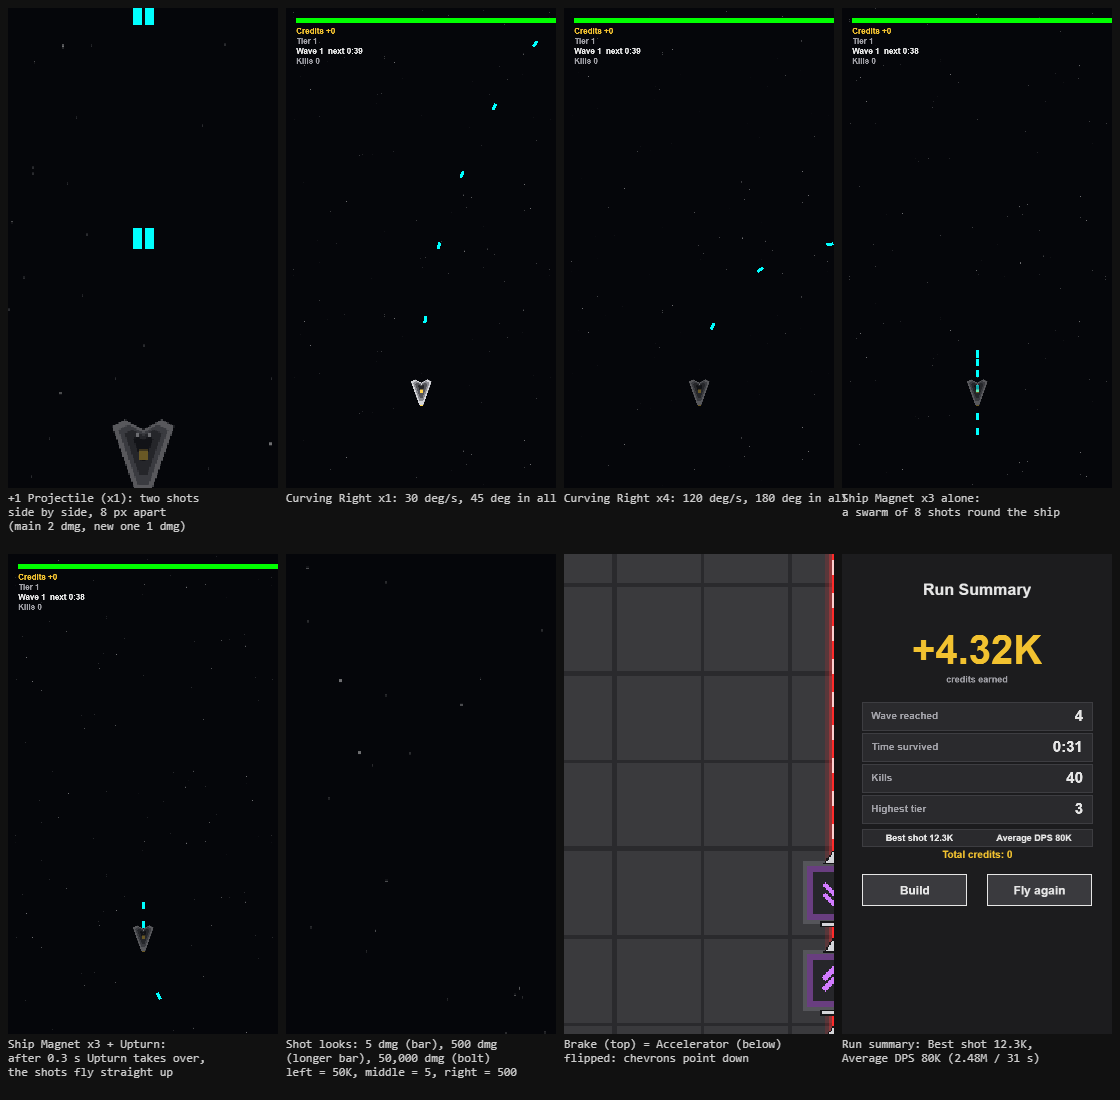
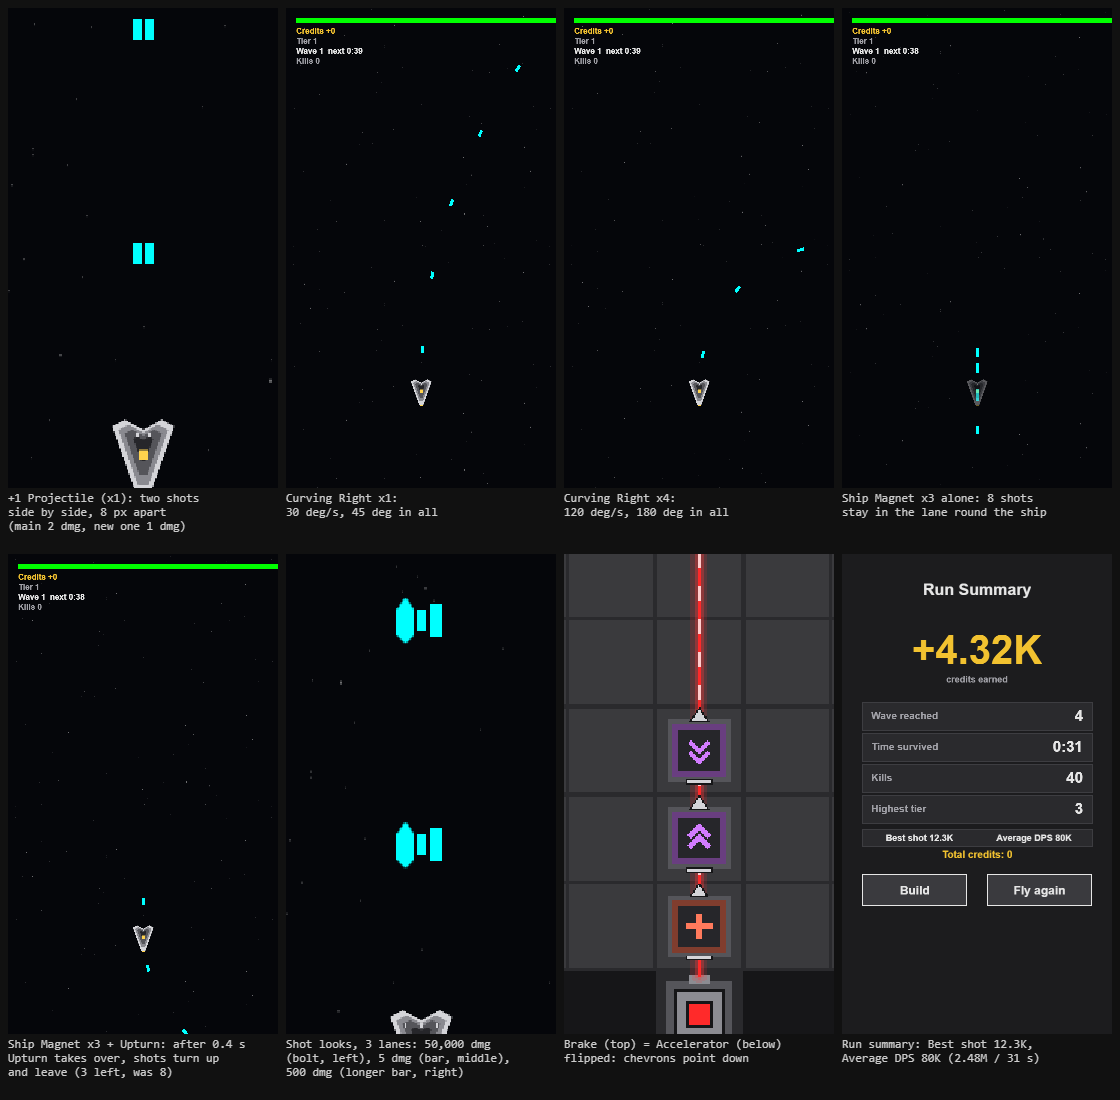
Chunk 21a: audit rerun, report, contact sheet, DECISIONS 367-371, e2e fixes

diff --git a/reports/chunk21a/REPORT.md b/reports/chunk21a/REPORT.md
@@ -1,0 +1,49 @@
+# Chunk 21a report
+
+Branch `chunk-21a` from `origin/main` (20b merged). Design note first: `docs/chunk21a.md`. Numbers and reasons: `DECISIONS.md` 351-371.
+
+## What was built
+
+| step | result |
+|---|---|
+| 2 | **+1 Projectile** (`plus_one`, Damage, cap 10, 110 x 1.5^(n-1), pass tier 10). The new shot has base damage and nothing from earlier blocks; every later block works on both; each copy adds one shot; the lane's shots leave side by side (`LANE_GAP` 8 px, not 6: see deviations). Proj/pulse and the estimate count them. Unit tests with Mirror, Fuse, Lone Shot, Splitter, Capacitor and a full pool; audit row. |
+| 3 | **Reverse removed**; save version 9 to 10; owned copies refunded by the price formula (3 copies = 19,152), placed copies leave the saved circuits, one-time notices. |
+| 4 | **Curves stack**: Curving Left / Right 30 deg/s and 45 deg in all per copy (4 copies: 120 and 180), Random Curve weave 30 x copies; cap 4 each. |
+| 5 | **Upturn overrides** Curving, Random Curve, Homing, Centreline, Ship Magnet and Zigzag after its delay (0.4 s, x0.75 per extra copy); not Orbit before launch, a waiting Mine, a Boomerang's way back. Rule and steering table: `docs/interactions.md` section 8. |
+| 6 | **Brake icon** = the Accelerator's flipped. |
+| 7 | **16 blocks repriced** (table: `reports/chunk21a/prices.md`). |
+| 8 | **Builder keys** (`src/builder/keys.ts`, pure `keyAction`), listed in the help text. |
+| 9 | **Run summary** shows Best shot and Average DPS (Free Fly, wall, Frontier encounter). |
+| 10 | **Shot looks by damage** (bands 10 / 100 / 1K / 10K, bolts in the top two). |
+
+## Deviations
+- **Lane gap 8 px instead of about 6** (a bar is 6 px wide; at 6 the shots touch and look like one).
+- **Best shot and Average DPS use the pipeline's nominal damage** (overkill included, burn ticks not counted).
+- **Random Curve has no total angle** (a weave has no drift); its rate is 30 x copies.
+- **The shot look is read from the shot's current damage each frame**, not once at spawn (cheaper, and it follows changes).
+- Reverse refund uses the price formula, as asked, not the credits actually paid.
+
+## Tests
+- Typecheck clean. Unit tests: 839 pass (`tests/chunk21a.test.ts` has 42; older tests were updated for version 10, the new prices and caps, and the removal of Reverse).
+- **Mutation checks (10, all killed):** blocks after +1 not applied to the extra (6 tests failed); the new shot inheriting earlier blocks (6); curve total cap removed (survived at first, because 0.5 degree steps divide 45 exactly, so I added a test with 0.07 s steps and then it fails); Upturn not overriding (4); Reverse refund growth changed (2); Shift+R mapping (1); a shot band edge moved (1); lane not centred (1); best shot keeping the smallest (1); Left curves counted as Right (2).
+- **e2e:** one new script (`e2e/chunk21a.e2e.cjs`, 26 checks). The whole suite was run three times (DECISIONS 369-370). Last whole run on a fresh server: **31 of 33**; `polish` and `ring` failed there, passed in the whole run before it and in two single reruns each (timing). The suite was not all green on `origin/main` before this chunk; the stale scripts are fixed (DECISIONS 369). The suite was NOT run a fourth time after the last edit to `e2e/chunk21a.e2e.cjs` (captions and crop positions only; that script alone was run and passed 26 of 26).
+- **Audit:** 2,077 OK / 275 CANCELS / 0 EXPLODES (DECISIONS 367).
+- **Shot look cost:** 0.0075 ms against 0.0077 ms per frame for 256 sprites (DECISIONS 368).
+
+## Contact sheet (`reports/chunk21a/sheet_chunk21a.png`, opened and looked at)
+1. +1 Projectile: pairs of cyan bars side by side with a thin gap, repeated up the lane.
+2. Curving Right x1 and 3. x4: shots along a curved path; the picture does not show the cap by itself (the numbers are in the check lines and the unit tests).
+4. Ship Magnet x3 alone: 8 shots in a vertical line above and below the ship (a line along the lane, not a swarm all round the ship).
+5. Ship Magnet x3 + Upturn: 3 shots left, one near the ship and two leaving at an angle; a weak picture, the proof is the shot count and the turn counter.
+6. Shot looks: a tall hexagon bolt (50,000), a short bar (5) and a longer bar (500) side by side.
+7. Brake above Accelerator: Brake's chevrons point down, Accelerator's up; Flat+ below.
+8. Run summary: a band under the rows reads "Best shot 12.3K" and "Average DPS 80K".
+
+## Not verified
+- Real phone touch, and the keys on other keyboard layouts (only Playwright key events).
+- The summary band and shot looks at 360 x 740 on a phone (checked on the game's own 540 x 960 canvas only; the band sits in the same column as the rows).
+- Balance: +1 Projectile's price and cap against play (modelled, not played); the new curve numbers and Random Curve's rate; the repriced blocks against real income.
+- The Overkill Spill / Residue Seed then +1 Projectile "never happens" flags (explained, not proven in a longer bench).
+- The help panel with the key list (not looked at on screen; the panel grows with the text).
+- Ten +1 Projectile copies on a big hull against the projectile pool limit in a real run (unit-tested with a pool of 5 only).
+- Other dev servers from earlier sessions are still running on ports 5173 to 5181, and `../MGBM-base` is an old worktree that shares this folder's `node_modules` (never run `npm ci` in it).

diff --git a/DECISIONS.md b/DECISIONS.md
@@ -452,3 +452,8 @@ These replace decisions 78-82 (cylinder, camera, backdrop, leash, spawn ring) an
 364. **Builder keys (21a).** `src/builder/keys.ts`: `keyAction` is a pure function; BuildScreen listens on `window` while it exists. Shift+R and Q rotate left; D, Delete and Backspace delete; Ctrl and Cmd both work for undo/redo; other Ctrl combinations (reload, select all) and Alt combinations are left to the browser. A repeating key is ignored except Delete/Backspace and Esc. While a sheet, the hull picker or the help panel is open only Esc acts (it closes the top one first, then deselects). The Build screen is not pausable, so the global Esc/P pause key does nothing there.
 365. **Run summary stats (21a).** `ProjectileSystem.runStats`: Best shot = the largest damage of one hit through `strike` (direct hits, blasts, chains, fork copies) or a cloud tick; Average DPS = the sum of those hits / the run's time. Damage as the pipeline counts it (nominal, including overkill and what armor/shields soak); burn ticks are not counted. `RunResult.shots` is not saved. The numbers are in one band under the rows (`ui/runStats.ts`); Free Fly, wall and Frontier encounter results all carry them.
 366. **Shot looks (21a).** `ui/shotLook.ts`: bands under 10 / 10-99 / 100-999 / 1K-9.9K / 10K+, bar 6x14, 7x18, 8x22, then a pointed bolt 10x26 and 12x32 (a flat hexagon texture made once per app, `ui/shotTextures.ts`). Read from `pool.damage` every frame instead of once at spawn: the lookup is four comparisons, it follows damage changes (Persist, Pierce keep) for free and needs no pool field. Only shots in `PHASE_NORMAL`; Orbit, Boomerang and Mine keep the 6x14 bar. A Fork copy's smaller size scales the look. Colour unchanged.
+367. **Audit (21a).** 49 blocks, 2,352 pairs (`QUICK=1`): 2,077 OK / 275 CANCELS / 0 EXPLODES (20b: 2,068 / 284). Reverse's 10 flags left with it; +1 Projectile adds 2 flags, both "the effect never happens": Overkill Spill then +1 Projectile and Residue Seed then +1 Projectile. Both are kill-timing effects that only the main shot carries; the extra plain shot lands part of the killing blows, so the marked shot rarely makes the kill in the 3-second bench (not investigated further; a longer run was not made). Mirror, Fuse and Lone Shot pair cleanly with it (all three are also unit-tested in `tests/chunk21a.test.ts`, as are Splitter 2 and Capacitor, which the audit does not fly). The curve blocks are audited at one copy only (the audit flies one copy of each block).
+368. **Shot look cost (21a).** 256 sprites, the old per-sprite update against the new one (a lookup of four comparisons, a texture compare, width and height): 0.0075 ms against 0.0077 ms per frame in headless Chromium, median of five runs of 400 frames. The bolt texture is made once per app; a texture swap only happens when a shot changes band.
+369. **e2e state (21a).** The suite was not "all pass" before this chunk: on `origin/main` (a clean worktree with its own `node_modules`, port 5190) campaign, frontier-map, frontier-squares, blocks-first-batch, builder-extra, freefly-waves and block-economy (a frame-time check, load dependent) failed. Causes: 20b made `richProgressJson` start with all tiers passed (campaign and frontier-map need `tiers: false`), the Reverse tier-lock rows of frontier-squares, the repriced blocks (blocks-first-batch needs more credits) and timing under load. Fixed in 21a: campaign, frontier-map (`tiers: false`), frontier-squares (Persist, tier 50, instead of Reverse; Chain Lightning has a legacy Frontier gate so it was not a good stand-in), blocks-first-batch (four credit clicks), freefly-waves and block-economy (save version 10), motion-blocks (Reverse section removed). builder-extra passed on a fresh server. The last whole run on a fresh dev server: 31 of 33; polish (TimeoutError) and ring ("the seam is on screen") failed there and passed in two single reruns each, and in the whole run before it.
+370. **Dev server state (21a).** A Vite dev server that has seen source edits makes `import('/src/econ/progress.ts')` inside a page return a different module instance than the one the app uses, so best-earnings seeded the wrong store and failed three checks (only after edits, only when run in the suite, never on a fresh server). Run the e2e on a freshly started server; no code was wrong.
+371. **Shared `node_modules` incident (21a).** `../MGBM-base` is an old worktree whose `node_modules` is a link to this folder's; an `npm ci` there (meant for a baseline) emptied the real `node_modules` (the known 9a failure). Repaired with `npm install` in this folder (typecheck, 838 unit tests and the e2e then ran), `package-lock.json` unchanged (reverted). Dev servers of earlier sessions on ports 5173, 5174, 5175, 5180 and 5181 were left running (I was not allowed to stop them): restart them. The baseline was then made in a new worktree with its own `node_modules` (`MGBM-21a-base`; remove it with `git worktree remove`).

diff --git a/docs/interaction-audit.md b/docs/interaction-audit.md
@@ -1,8 +1,8 @@
 # Interaction audit (chunk 20b, with the thirteen motion blocks)
 
-Generated by `npm run interaction-audit` (`scripts/interaction-audit.ts`), 91 s. 49 blocks, 2352 ordered pairs (A is lower on the line, B above it), each in the three bench scenarios (big target, cluster, splitting rock) of `scripts/lib/dmgBench.ts`, 3 s per half-run, after a Flat+ on the Fan hull's middle column.
+Generated by `npm run interaction-audit` (`scripts/interaction-audit.ts`), 89 s. 49 blocks, 2352 ordered pairs (A is lower on the line, B above it), each in the three bench scenarios (big target, cluster, splitting rock) of `scripts/lib/dmgBench.ts`, 3 s per half-run, after a Flat+ on the Fan hull's middle column.
 
-**2076 OK, 276 CANCELS, 0 EXPLODES.**
+**2077 OK, 275 CANCELS, 0 EXPLODES.**
 
 - CANCELS: the pair removes under 95% of the HP per second of the better block alone, or one block's own effect (its counter) is 0 although it happened alone.
 - Blocks that cost damage on their own (below 97% of a plain Flat+ gun): Orbit, Mine, Curving Right, Fission Catalyst, Fuse, Curving Left, Angle Left, Angle Right, Brake, Scatter, Ship Magnet. A pair with one of them is compared with that block alone, not with its partner alone.
@@ -289,7 +289,6 @@ Against the "before" run (`docs/interaction-audit-before.md`): 42 pairs went fro
 | Ship Magnet then Scatter | CANCELS | 78% of the better block alone | - |
 | Upturn then Hollow Core | CANCELS | 93% of the better block alone | - |
 | Align then Hollow Core | CANCELS | 93% of the better block alone | - |
-| +1 Projectile then Random Curve | CANCELS | 94% of the better block alone | - |
 
 ## Full table
 
@@ -345,4 +344,4 @@ Row = A (first on the line), column = B. `.` OK, `C` CANCELS, `X` EXPLODES.
 | Upturn | . | . | . | . | . | . | . | . | . | . | . | . | . | . | . | . | . | . | . | . | . | . | . | . | . | . | . | C | . | . | . | . | . | . | . | . | . | . | . | . | . | . | . | . | . | - | . | . | . |
 | Align | . | . | . | . | . | . | . | . | . | . | . | . | . | . | . | . | . | . | . | . | . | . | . | . | . | . | . | C | . | . | . | . | . | . | . | . | . | . | . | . | . | . | . | . | . | . | - | . | . |
 | Persist | . | . | . | . | . | . | . | . | . | . | . | . | . | . | . | . | . | . | . | . | . | . | . | . | . | . | . | . | . | . | . | . | . | . | . | . | . | . | . | . | . | . | . | . | . | . | . | - | . |
-| +1 Projectile | . | . | . | . | . | . | . | . | . | . | . | C | . | . | . | . | . | . | . | . | . | . | . | . | . | . | . | . | . | . | . | . | . | . | . | . | . | . | . | . | . | . | . | . | . | . | . | . | - |
+| +1 Projectile | . | . | . | . | . | . | . | . | . | . | . | . | . | . | . | . | . | . | . | . | . | . | . | . | . | . | . | . | . | . | . | . | . | . | . | . | . | . | . | . | . | . | . | . | . | . | . | . | - |
